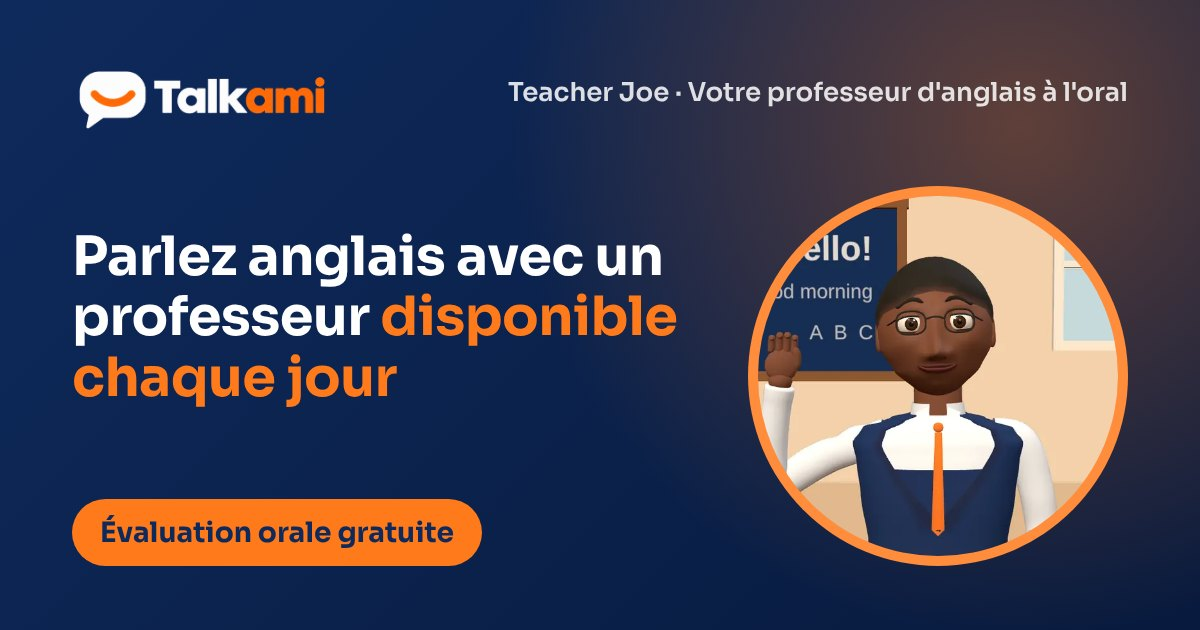
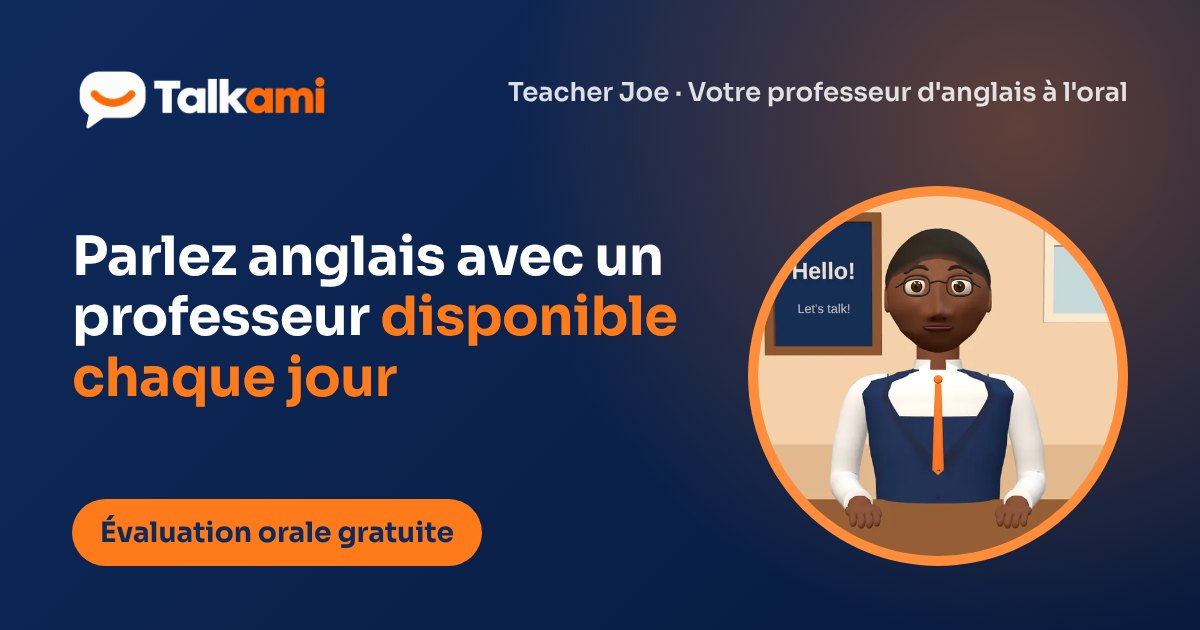
Teacher Joe : tableau du décor entier à toutes les largeurs, image fixe refaite
Le tableau noir est placé à chaque redimensionnement d'après la partie
visible de l'image (bord gauche visible, à l'écart de la tête), avec un
texte court et centré (« Hello! », « Let's talk! » ; « Hello! » seul quand
il est étroit) : plus jamais « ello! » ni « od morning ». Fonction pure
boardLayout testée par tests/js/teacher-3d.test.mjs.

Image fixe teacher-joe.webp refaite à partir de la 3D corrigée, au repos,
mains posées sur le bureau (12 Ko) ; image de partage régénérée.

Claude-Session: https://claude.ai/code/session_01Y94TMhTGajBV7rdmL3adzq

Changed region(s): [[0.6167, 0.3016, 0.925, 0.9048], [0.8633, 0.3619, 0.925, 0.573]]

diff --git a/public/js/teacher-3d.js b/public/js/teacher-3d.js
@@ -16,6 +16,50 @@
 
 const CACHE = 'teacher3d';
 
+/* ---------- Tableau noir du décor ---------- */
+
+// Mots écrits à la craie : courts, pour tenir entiers même sur un téléphone en portrait.
+export const BOARD_LINES = ['Hello!', "Let's talk!"];
+const BOARD_Z = -0.6;
+// Plus grand tableau possible (celui d'avant), et bord droit gardé à l'écart de la tête.
+const BOARD_MAX = { left: -1.12, right: -0.22, bottom: 0.535, top: 1.065 };
+const BOARD_MARGIN = 0.06;
+const BOARD_MIN_WIDTH = 0.12;
+// En dessous de cette largeur, seule la première ligne est écrite (assez grande pour être lue).
+const BOARD_ONE_LINE_WIDTH = 0.3;
+
+/**
+ * Position du tableau (en mètres, plan du mur) d'après ce que voit la caméra :
+ * il commence au bord gauche VISIBLE (avec une marge) et s'arrête avant la
+ * tête, donc il n'est jamais coupé par le bord de l'image. Renvoie null s'il
+ * n'y a pas la place (image très étroite). Même calcul que resize().
+ * Fonction pure, testée par tests/js/teacher-3d.test.mjs.
+ */
+export function boardLayout({ aspect, distance, fov = 30, target = [0, 0.57, 0] }) {
+    const [cx, cy, cz] = target;
+    const tan = Math.tan((fov * Math.PI / 180) / 2);
+    const cameraZ = cz + distance;
+    const cameraY = cy + distance * 0.06;
+    const depth = cameraZ - BOARD_Z;
+    const halfHeight = tan * depth;
+    const halfWidth = halfHeight * aspect;
+    // Centre de l'image sur le mur (la caméra regarde un peu vers le bas).
+    const centerY = cameraY - (cameraY - cy) * (depth / distance);
+
+    const left = Math.max(BOARD_MAX.left, cx - halfWidth + BOARD_MARGIN);
+    const right = BOARD_MAX.right;
+    const top = Math.min(BOARD_MAX.top, centerY + halfHeight - BOARD_MARGIN * 1.6);
+    const bottom = BOARD_MAX.bottom;
+
+    if (right - left < BOARD_MIN_WIDTH || top - bottom < 0.2) {
+        return null;
+    }
+
+    const lines = right - left < BOARD_ONE_LINE_WIDTH ? BOARD_LINES.slice(0, 1) : BOARD_LINES;
+
+    return { left, right, bottom, top, lines, visible: { left: cx - halfWidth, right: cx + halfWidth, top: centerY + halfHeight, bottom: centerY - halfHeight } };
+}
+
 /* ---------- Expressions et gestes ---------- */
 
 // Expressions : formes du visage, attitude de la tête [inclinaison avant, rotation, penché], geste.
@@ -303,30 +347,9 @@ class Teacher3D {
             box(4, 3, 0.02, '#ecd8bd', 0, 0.9, -0.62);
             box(4, 0.5, 0.03, '#d9bf9c', 0, -0.05, -0.6);
 
-            // Tableau noir avec quelques mots écrits à la craie.
-            const canvas = document.createElement('canvas');
-            canvas.width = 512;
-            canvas.height = 256;
-            const g = canvas.getContext('2d');
-            g.fillStyle = '#16305e';
-            g.fillRect(0, 0, 512, 256);
-            g.textAlign = 'right';
-            g.fillStyle = 'rgba(255,255,255,0.85)';
-            g.font = 'bold 54px sans-serif';
-            g.fillText('Hello!', 470, 80);
-            g.font = '32px sans-serif';
-            g.fillStyle = 'rgba(255,255,255,0.7)';
-            g.fillText('Good morning', 470, 140);
-            g.fillText('A  B  C', 470, 205);
-            const texture = new THREE.CanvasTexture(canvas);
-            texture.colorSpace = THREE.SRGBColorSpace;
-            const board = new THREE.Mesh(new THREE.PlaneGeometry(1.0, 0.5), new THREE.MeshLambertMaterial({ map: texture }));
-            board.position.set(-0.62, 0.80, -0.6);
-            room.add(board);
-            box(1.06, 0.03, 0.03, '#8a5a36', -0.62, 0.535, -0.59);
-            box(1.06, 0.03, 0.03, '#8a5a36', -0.62, 1.065, -0.59);
-            box(0.03, 0.56, 0.03, '#8a5a36', -0.11, 0.80, -0.59);
-            box(0.03, 0.56, 0.03, '#8a5a36', -1.13, 0.80, -0.59);
+            // Tableau noir : placé et redessiné à chaque changement de taille (resize → placeBoard).
+            this.board = new THREE.Group();
+            room.add(this.board);
 
             // Fenêtre ensoleillée.
             box(0.56, 0.5, 0.01, '#bfe0f2', 0.66, 0.88, -0.605);
@@ -356,6 +379,88 @@ class Teacher3D {
         }
 
         this.scene.add(room);
+    }
+
+    // Tableau noir dans la partie visible à gauche de la tête, texte court centré : jamais coupé.
+    placeBoard(distance) {
+        if (!this.board) {
+            return;
+        }
+
+        const { THREE } = this;
+        const layout = boardLayout({ aspect: this.camera.aspect, distance, fov: this.camera.fov, target: this.config.model.camera.target });
+        const key = layout ? [layout.left, layout.right, layout.bottom, layout.top].map((v) => v.toFixed(3)).join() : 'none';
+
+        if (key === this.boardKey) {
+            return;
+        }
+
+        this.boardKey = key;
+
+        for (const child of [...this.board.children]) {
+            this.board.remove(child);
+            child.geometry?.dispose();
+            child.material?.map?.dispose();
+            child.material?.dispose();
+        }
+
+        if (!layout) {
+            return;
+        }
+
+        const { left, right, bottom, top } = layout;
+        const width = right - left;
+        const height = top - bottom;
+        const cx = (left + right) / 2;
+        const cy = (top + bottom) / 2;
+
+        // Texture de 512 pixels sur le côté le plus long ; texte réduit s'il dépasse la largeur.
+        const scale = 512 / Math.max(width, height);
+        const canvas = document.createElement('canvas');
+        canvas.width = Math.max(64, Math.round(width * scale));
+        canvas.height = Math.max(64, Math.round(height * scale));
+        const g = canvas.getContext('2d');
+        g.fillStyle = '#16305e';
+        g.fillRect(0, 0, canvas.width, canvas.height);
+        g.textAlign = 'center';
+        g.textBaseline = 'middle';
+        const fit = (text, size, weight) => {
+            g.font = `${weight} ${size}px sans-serif`;
+            const room = canvas.width * 0.84;
+            const measured = g.measureText(text).width;
+
+            if (measured > room) {
+                g.font = `${weight} ${Math.floor(size * room / measured)}px sans-serif`;
+            }
+        };
+        const { lines } = layout;
+        const big = Math.min(canvas.height * 0.3, 96);
+        fit(lines[0], big, 'bold');
+        g.fillStyle = 'rgba(255,255,255,0.88)';
+        g.fillText(lines[0], canvas.width / 2, canvas.height * (lines.length > 1 ? 0.4 : 0.42));
+
+        if (lines[1]) {
+            fit(lines[1], big * 0.55, 'normal');
+            g.fillStyle = 'rgba(255,255,255,0.72)';
+            g.fillText(lines[1], canvas.width / 2, canvas.height * 0.7);
+        }
+
+        const texture = new THREE.CanvasTexture(canvas);
+        texture.colorSpace = THREE.SRGBColorSpace;
+        const board = new THREE.Mesh(new THREE.PlaneGeometry(width, height), new THREE.MeshLambertMaterial({ map: texture }));
+        board.position.set(cx, cy, BOARD_Z);
+        this.board.add(board);
+
+        // Cadre en bois.
+        const frame = (w, h, x, y) => {
+            const mesh = new THREE.Mesh(new THREE.BoxGeometry(w, h, 0.03), new THREE.MeshLambertMaterial({ color: '#8a5a36' }));
+            mesh.position.set(x, y, BOARD_Z + 0.01);
+            this.board.add(mesh);
+        };
+        frame(width + 0.06, 0.03, cx, bottom - 0.015);
+        frame(width + 0.06, 0.03, cx, top + 0.015);
+        frame(0.03, height + 0.06, left - 0.015, cy);
+        frame(0.03, height + 0.06, right + 0.015, cy);
     }
 
     prepareModel() {
@@ -404,6 +509,7 @@ class Teacher3D {
         this.camera.lookAt(cx, cy, cz);
         this.camera.updateProjectionMatrix();
         this.eyeLevelPitch = Math.atan2((this.config.model.camera.eye_height ?? 0.68) - this.camera.position.y, distance);
+        this.placeBoard(distance);
     }
 
     /* ---------- Audio ---------- */

diff --git a/public/css/app.css b/public/css/app.css
@@ -237,7 +237,7 @@ legend { font-weight: var(--fw-heavy); font-size: var(--fs-lg); margin-bottom: v
 .hero h1 .accent { color: var(--c-accent-strong); }
 .hero-teacher { display: flex; align-items: center; gap: var(--space-3); margin: 0 0 var(--space-3); font-size: var(--fs-sm); color: var(--c-muted); }
 .hero-teacher-face { flex: none; width: 56px; height: 56px; border-radius: 50%; overflow: hidden; background: var(--c-bg-warm); box-shadow: 0 0 0 3px var(--c-surface), 0 0 0 5px var(--c-accent); }
-.hero-teacher-face img { display: block; width: 100%; height: 100%; transform: scale(2.1) translate(1%, 14%); }
+.hero-teacher-face img { display: block; width: 100%; height: 100%; transform: scale(2.6) translate(0, 20%); }
 .hero-teacher strong { display: block; color: var(--c-heading); font-size: var(--fs-md); }
 .hero-eyebrow { display: none; }
 .hero .lead { margin-bottom: var(--space-3); }
